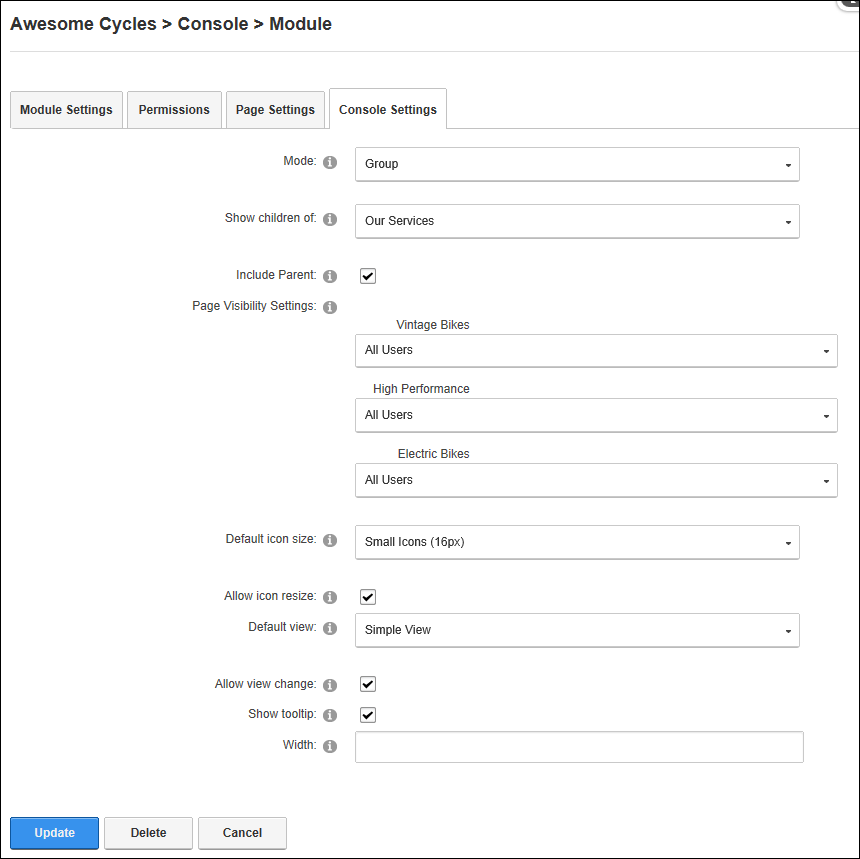
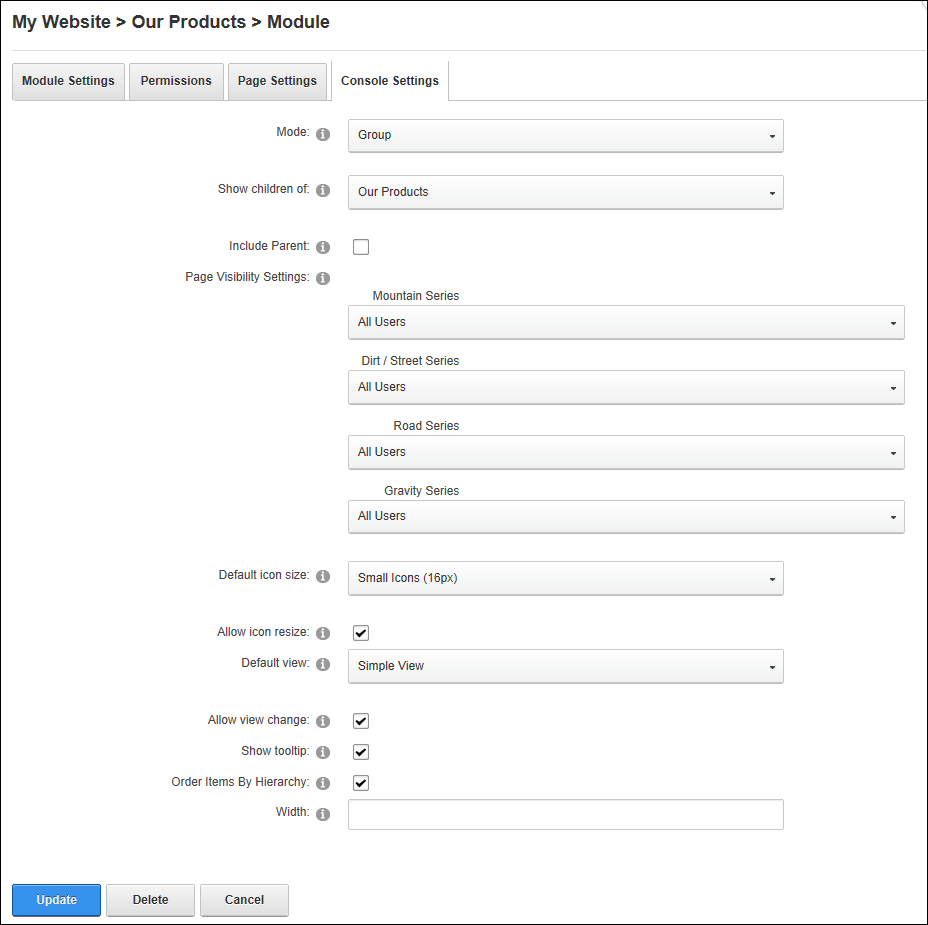
DNN-19924

diff --git a/Documentation/Building Your Site/Installed Modules/Console/GroupsConsole.html b/Documentation/Building Your Site/Installed Modules/Console/GroupsConsole.html
@@ -1,10 +1,10 @@
 <?xml version="1.0" encoding="utf-8"?>
-<html xmlns:MadCap="http://www.madcapsoftware.com/Schemas/MadCap.xsd" MadCap:lastBlockDepth="6" MadCap:lastHeight="1672" MadCap:lastWidth="1267">
+<html xmlns:MadCap="http://www.madcapsoftware.com/Schemas/MadCap.xsd" MadCap:lastBlockDepth="6" MadCap:lastHeight="1877" MadCap:lastWidth="1267">
     <head>
     </head>
     <body>
         <h1>Displaying Groups using the Console</h1>
-        <p>How to display a social group on the Console module.</p>
+        <p>How to restrict the pages that are displayed on the Console by social group. This Console setup would typically be added to a social group page.</p>
         <ol>
             <li>
                 <MadCap:snippetText src="../../../../../Resources/Snippets/Module Settings.flsnp" />
@@ -14,7 +14,7 @@
             <li>At <b>Show Children Of</b>, select from these options:
     <ul><li>Leave this field blank to display all child pages for the current page. This is the default setting.</li><li>Select a page display all child pages for that page.</li></ul></li>
             <li>At <b>Include Parent</b>, mark <img src="../../../Resources/Images/Icons/check.png" style="vertical-align: bottom;" />&#160;the check box to include the parent page selected in the previous step at the top of the pages list - OR - unmark <img src="../../../Resources/Images/Icons/uncheck.png" style="visibility: visible;mso-wrap-style: square;width: 13px;height: 13px;vertical-align: bottom;" />&#160;the check box to only include the child pages of the selected page in the list.</li>
-            <li>At <b>Page Visibility Settings</b>, select the roles that are permitted to view each child page.</li>
+            <li>At <b>Page Visibility Settings</b>, select whether a page is visible to <b>All Users</b> who are on the current page, the <b>Owner</b> of the social group, or <b>Members</b> of the social group.</li>
             <li>At <b>Default Icon Size</b>, select from the following:
     <ul><li><b>Small Icons (16 px)</b>: Select to display a 16 pixel icons. The icon used will either be the default icon provided with the Console module or the "Icon" image set for the page. <MadCap:xref href="../../Adding and Managing Pages/Page Settings/Advanced Settings for New Pages.html">See "Advanced Settings for New Pages"</MadCap:xref> or <MadCap:xref href="../../Adding and Managing Pages/Page Settings/Advanced Settings for Existing Pages.html">See "Advanced Settings for Existing Pages"</MadCap:xref>. This is the default setting.</li><li><b>Large Icons (32 px)</b>: Select to display a 32 pixel icons. The icon used will either be the default icon provided with the Console module or the "Large Icon" image set for the page. <MadCap:xref href="../../Adding and Managing Pages/Page Settings/Advanced Settings for New Pages.html">See "Advanced Settings for New Pages"</MadCap:xref> or <MadCap:xref href="../../Adding and Managing Pages/Page Settings/Advanced Settings for Existing Pages.html">See "Advanced Settings for Existing Pages"</MadCap:xref></li><li><b>No Icons</b>:&#160;Select if you don't want to display an icon on the pages list. Skip the next step.</li></ul></li>
             <li>At <b>Allow Icon Resize</b>, select from these options:
@@ -31,7 +31,8 @@
                 <li>Mark <img src="../../../Resources/Images/Icons/check.png" style="vertical-align: bottom;" />&#160;the check box to display the page description as a tool tip when a user hovers over the page name in Simple View. This is the default setting.</li>
                 <li>Unmark <img src="../../../Resources/Images/Icons/uncheck.png" /> the check box to hide the tool tip and hide the page description in Simple View.</li>
             </ul>
-            <li>&#160;In the <b>Width</b> text box, select from these options:
+            <li>At <b>Order Items By Hierarchy</b>, select from these options:<ul><li>Mark <img src="../../../Resources/Images/Icons/check.png" style="vertical-align: bottom;" />&#160;the check box to display the pages that don't have child pages in alphabetical order at the beginning of the list, followed by pages that do have child pages at the end of the list. E.g. If there are four parent pages (Pages A, B, C and D) and only Pages A and D have child pages, then the Console would display pages in this order: Page B, Page C, Page A, Page A1, Page A2, Page D, Page D1, Page D2.</li><li>Unmark <img src="../../../Resources/Images/Icons/uncheck.png" style="visibility: visible;mso-wrap-style: square;width: 13px;height: 13px;vertical-align: bottom;" />&#160;the check box&#160;to display pages in alphabetical order regardless of whether pages have children.  E.g. If there are four parent pages (Pages A, B, C and D) and only Pages A and D have child pages, then the Console would display pages in this order: Page A, Page A1, Page A2, Page B, Page C, Page D, Page D1, Page D2.</li></ul></li>
+            <li>&#160;In the <b>Width </b>text box, select from these options:
     <ul><li>Enter a pixel width to set the width of this module. For example, enter 400px to display 2 columns of icons in the content pane. </li><li>Leave this field blank to allow the icons to expand horizontally. This is the default setting.</li></ul></li>
         </ol>
         <p>

diff --git a/Documentation/Building Your Site/Installed Modules/Console/PagesConsole.html b/Documentation/Building Your Site/Installed Modules/Console/PagesConsole.html
@@ -1,5 +1,5 @@
 <?xml version="1.0" encoding="utf-8"?>
-<html xmlns:MadCap="http://www.madcapsoftware.com/Schemas/MadCap.xsd" MadCap:lastBlockDepth="6" MadCap:lastHeight="2530" MadCap:lastWidth="1267">
+<html xmlns:MadCap="http://www.madcapsoftware.com/Schemas/MadCap.xsd" MadCap:lastBlockDepth="6" MadCap:lastHeight="2463" MadCap:lastWidth="1267">
     <head>
     </head>
     <body>
@@ -21,7 +21,7 @@
     <ul><li><b>Simple View</b>: Select to display an icon and the page name for each item. This is the default setting.</li><li><b>Detailed View</b>: Select to display an icon, the page name and the page description for each item.</li></ul></li>
             <li>At <b>Allow View Change</b>, mark <img src="../../../Resources/Images/Icons/check.png" style="vertical-align: bottom;" />&#160;the check box to display a drop down list at the top of the module that allows users to switch between simple and detailed views. This is the default setting. - OR - Unmark <img src="../../../Resources/Images/Icons/uncheck.png" style="visibility: visible;mso-wrap-style: square;width: 13px;height: 13px;vertical-align: bottom;" />&#160;the check box&#160;to only display the default view.</li>
             <li>At <b>Show Tooltip</b>, select from these options:<ul><li>Mark <img src="../../../Resources/Images/Icons/check.png" style="vertical-align: bottom;" />&#160;the check box to display the page description as a tool tip when a user hovers over the page name in Simple View. This is the default setting.</li><li>Unmark <img src="../../../Resources/Images/Icons/uncheck.png" style="visibility: visible;mso-wrap-style: square;width: 13px;height: 13px;vertical-align: bottom;" />&#160;the check box&#160;to hide the tool tip and hide the page description in Simple View.</li></ul></li>
-            <li>At <b>Order Items By Hierarchy</b>, mark <img src="../../../Resources/Images/Icons/check.png" style="vertical-align: bottom;" />&#160;the check box to display any pages that have child pages at the end of the list.</li>
+            <li>At <b>Order Items By Hierarchy</b>, select from these options:<ul><li>Mark <img src="../../../Resources/Images/Icons/check.png" style="vertical-align: bottom;" />&#160;the check box to display the pages that don't have child pages in alphabetical order at the beginning of the list, followed by pages that do have child pages at the end of the list. E.g. If there are four parent pages (Pages A, B, C and D) and only Pages A and D have child pages, then the Console would display pages in this order: Page B, Page C, Page A, Page A1, Page A2, Page D, Page D1, Page D2.</li><li>Unmark <img src="../../../Resources/Images/Icons/uncheck.png" style="visibility: visible;mso-wrap-style: square;width: 13px;height: 13px;vertical-align: bottom;" />&#160;the check box&#160;to display pages in alphabetical order regardless of whether pages have children.  E.g. If there are four parent pages (Pages A, B, C and D) and only Pages A and D have child pages, then the Console would display pages in this order: Page A, Page A1, Page A2, Page B, Page C, Page D, Page D1, Page D2.</li></ul></li>
             <li>&#160;In the <b>Width </b>text box, select from these options:
     <ul><li>Enter a pixel width to set the width of this module. For example, enter 400px to display 2 columns of icons in the content pane. </li><li>Leave this field blank to allow the icons to expand horizontally. This is the default setting.</li></ul></li>
         </ol>
@@ -35,8 +35,12 @@
         </ol>
         <p class="tip">Tip:&#160;If an icon has not been set on a page then the default icons called "icon_unknown_32px.gif" for the large icon and "icon_unknown_16px.gif" for the small icon will be displayed. An example of this is seen on the parent page "Our Services" in the below image.</p>
         <p>
-            <img alt="" src="../../../Resources/Images/Modules/Console/Console_Pages2.png" />
-            <br /><small>The Console module sets to display both the parent and child pages with large icons and detailed view</small>
+            <img alt="" src="../../../Resources/Images/Modules/Console/Console_Pages_HeirarchyOff.PNG" />
+            <br /><small>The Console module set to display both the parent and child pages with "Order Items By Hierarchy" disabled</small>
+        </p>
+        <p>
+            <img alt="" src="../../../Resources/Images/Modules/Console/Console_Pages_HeirarchyOn.PNG" />
+            <br /><small>The Console module set to display both the parent and child pages with "Order Items By Hierarchy" enabled</small>
         </p>
     </body>
 </html>

diff --git a/Documentation/Using the Control Panel/Admin Console/Languages/SuperUsers/Editing Language Files - System, Host or Site.html b/Documentation/Using the Control Panel/Admin Console/Languages/SuperUsers/Editing Language Files - System, Host or Site.html
@@ -1,12 +1,12 @@
 <?xml version="1.0" encoding="utf-8"?>
-<html xmlns:MadCap="http://www.madcapsoftware.com/Schemas/MadCap.xsd" MadCap:lastBlockDepth="8" MadCap:lastHeight="2383" MadCap:lastWidth="1340">
+<html xmlns:MadCap="http://www.madcapsoftware.com/Schemas/MadCap.xsd" MadCap:lastBlockDepth="8" MadCap:lastHeight="2512" MadCap:lastWidth="1174">
     <head>
     </head>
     <body>
         <h1>Editing Language Files (System, Host or Site)</h1>
         <p>How to edit the Language files for a single site, the host installation or the full DNN system using the Languages module. System and Host files can only be managed by SuperUsers. In the below example, the name of the Host &gt; Vendors page  will be changed to "Advertising Partners" for the current site only. <MadCap:snippetText src="../../../../../Resources/Snippets/Permission SuperUser Only.flsnp" /></p>
         <ol>
-            <li>Navigate to Admin &gt;&#160;Advanced Settings &gt; <img src="../../../../Resources/Images/Icons/Languages_16x16_Standard.png" /> <![CDATA[ ]]><b>Languages</b> - OR&#160;- Go to a Languages module.</li>
+            <li>Navigate to Admin &gt;&#160;Advanced Settings &gt; <img src="../../../../Resources/Images/Icons/Languages_16x16_Standard.png" /> <b>Languages</b> - OR&#160;- Go to a Languages module.</li>
             <li> Select the <b>Languages</b> tab. </li>
             <li><b>Optional.</b> In the <b>Culture</b> grid, located the required language.</li>
             <li>Click the&#160;<b>Edit </b>&#160;<img alt="" src="../../../../Resources/Images/Icons/Edit_16X16_Standard.png" /> button beside one of these options to open the Language Editor page:<ul><li value="1"><b>System</b>: Select to edit the base file for a given language.</li><li value="2"><b>Host</b>:&#160;Select to create a custom version of the localized file for all sites within this installation.</li><li value="3"><b>Site</b>:&#160;Select to edit files for the current site only.</li></ul></li>
@@ -16,7 +16,7 @@
         </p>
         <ol MadCap:continue="true">
             <li><b>Optional.</b> At <b>Select Mode</b>, you can change which resource files you want to edit (as previously selected at step 4). E.g. System, Host or Site.</li>
-            <li><b>Optional.</b>In the <b>Resources</b> folder list, navigate to and select the required file from the below folders.<ul><li value="1"><b>Local Resources</b>: Files that are related to specific Admin controls, modules (desktop modules), controls, installation and Host skins. In the below example, the Help message displayed when changing your password will be changed.</li><li value="2"><b>Global Resources</b>: Files that are used across the site. This is divided into GlobalResources and SharedResources. This is where you can edit the messages that are sent to users, error messages, site messages, etc.</li></ul></li>
+            <li><b>Optional.</b>In the <b>Resources</b> folder list, navigate to and select the required file from the below folders.<ul><li value="1"><b>Local Resources</b>: Files that are related to specific Admin controls, modules (desktop modules), controls, installation and Host skins. In the below example, the Help message displayed when changing your password will be changed.</li><li value="2"><b>Global Resources</b>: Files that are used across the site. This is divided into GlobalResources and SharedResources. This is where you can edit the messages that are sent to users, error messages, site messages, etc.</li><li><b>Site Templates</b>:&#160;Select to edit the default, blank and mobile site templates for the selected language. </li></ul></li>
             <li>Locate the required resource file. Note:&#160;If Paging is enabled, the file may be located on another page. <MadCap:xref href="../Settings/Configuring Language Settings for a Site.html">See "Configuring Setting for the Language Editor"</MadCap:xref></li>
         </ol>
         <p>

diff --git a/Documentation/Building Your Site/Installed Modules/Console/ProfileConsole.html b/Documentation/Building Your Site/Installed Modules/Console/ProfileConsole.html
@@ -1,5 +1,5 @@
 <?xml version="1.0" encoding="utf-8"?>
-<html xmlns:MadCap="http://www.madcapsoftware.com/Schemas/MadCap.xsd" MadCap:lastBlockDepth="10" MadCap:lastHeight="2076" MadCap:lastWidth="1215">
+<html xmlns:MadCap="http://www.madcapsoftware.com/Schemas/MadCap.xsd" MadCap:lastBlockDepth="10" MadCap:lastHeight="2416" MadCap:lastWidth="1215">
     <head>
     </head>
     <body>
@@ -26,7 +26,8 @@
                     <MadCap:snippetText src="../../../Resources/Snippets/Uncheck.flsnp" />to only display the default view.</li>
             </ul>
             <li>At <b>Show Tooltip</b>, select from these options:<ul MadCap:continue="true"><li><MadCap:snippetText src="../../../Resources/Snippets/Check.flsnp" />to display the page description as a tool tip when a user hovers over the page name in Simple View. This is the default setting.</li><li><MadCap:snippetText src="../../../Resources/Snippets/Uncheck.flsnp" />to hide the tool tip and hide the page description in Simple View.</li></ul></li>
-            <li>In the <b>Width </b>text box, select from these options:
+            <li>At <b>Order Items By Hierarchy</b>, select from these options:<ul><li>Mark <img src="../../../Resources/Images/Icons/check.png" style="vertical-align: bottom;" />&#160;the check box to display the pages that don't have child pages in alphabetical order at the beginning of the list, followed by pages that do have child pages at the end of the list. E.g. If there are four parent pages (Pages A, B, C and D) and only Pages A and D have child pages, then the Console would display pages in this order: Page B, Page C, Page A, Page A1, Page A2, Page D, Page D1, Page D2.</li><li>Unmark <img src="../../../Resources/Images/Icons/uncheck.png" style="visibility: visible;mso-wrap-style: square;width: 13px;height: 13px;vertical-align: bottom;" />&#160;the check box&#160;to display pages in alphabetical order regardless of whether pages have children.  E.g. If there are four parent pages (Pages A, B, C and D) and only Pages A and D have child pages, then the Console would display pages in this order: Page A, Page A1, Page A2, Page B, Page C, Page D, Page D1, Page D2.</li></ul></li>
+            <li>&#160;In the <b>Width </b>text box, select from these options:
     <ul><li>Enter a pixel width to set the width of this module. For example, enter 400px to display 2 columns of icons in the content pane. </li><li>Leave this field blank to allow the icons to expand horizontally. This is the default setting.</li></ul></li>
         </ol>
         <p>
@@ -39,6 +40,7 @@
         </ol>
         <p>
             <img alt="" src="../../../Resources/Images/Modules/Console/Console_Profile1.png" />
+            <br /><small>Console set to display both the parent and child profile pages with "Order Items By Hierarchy" disabled</small>
         </p>
     </body>
 </html>
